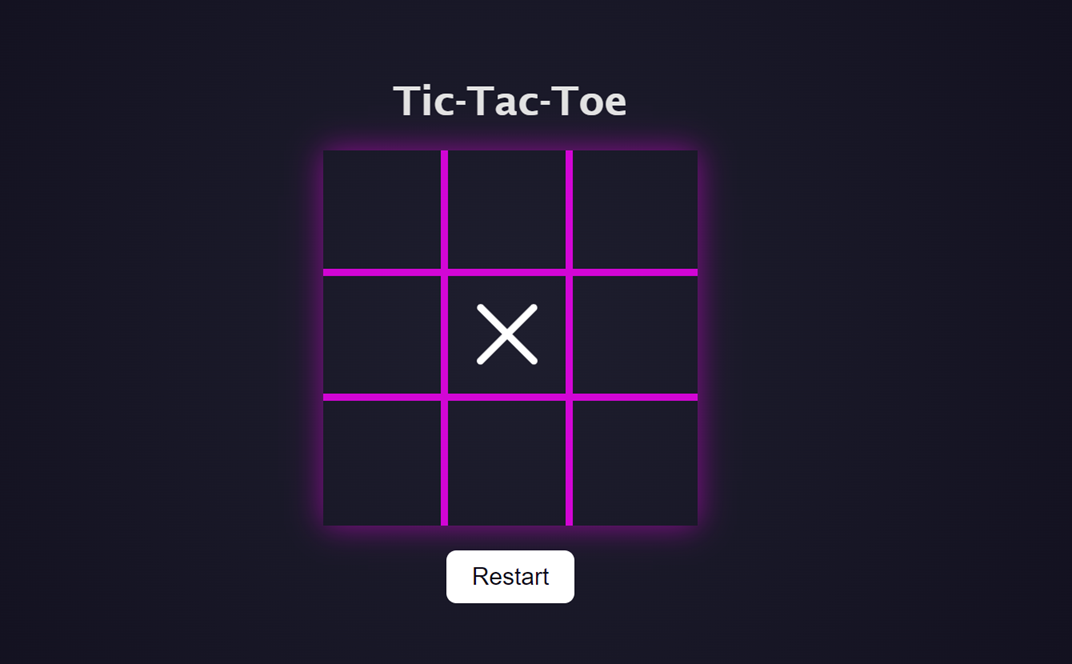
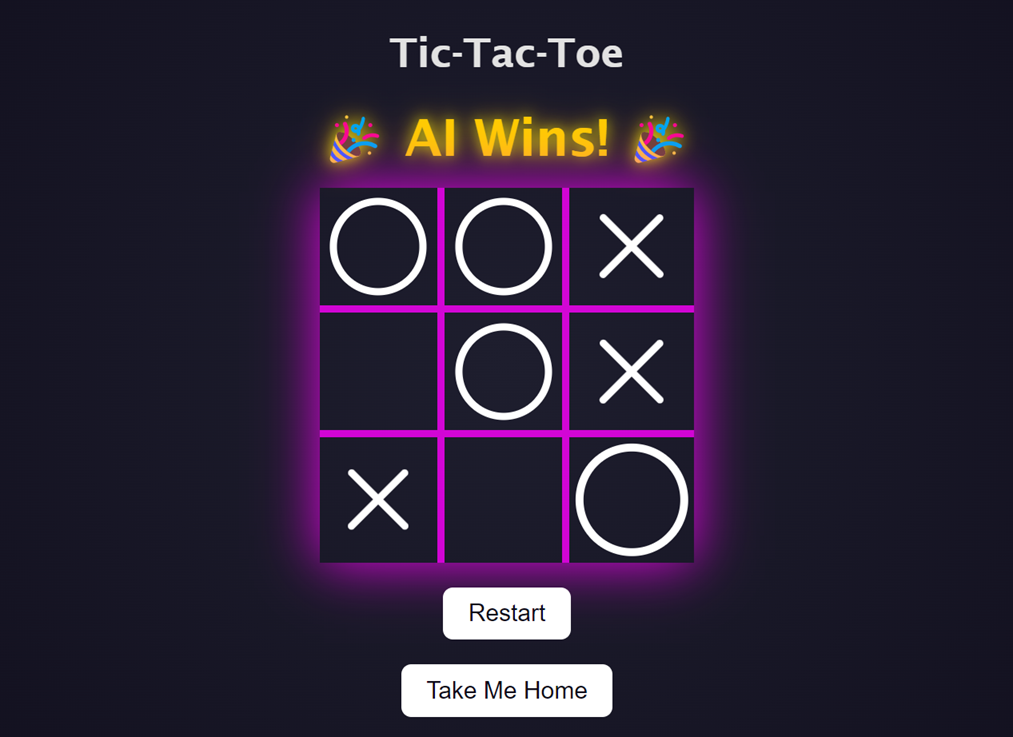
updated readme

Changed region(s): [[0.2754, 0.1205, 0.7345, 0.994], [0.3672, 0.0301, 0.612, 0.0904]]

diff --git a/README.md b/README.md
@@ -43,25 +43,30 @@ It’s just down the hall, to the right.
 <div align="center">
 But first, let me show you this…
 <br>
-<div align="center">
-  <img src="welcome.png" alt="Welcome" />
-</div>
-<br>
 <br>
 <div align="left">
 
 ```
-decl_name       "Welcome to My Page"
+decl_name       "tic-tac-toe"
 decl_version    1
 
-statemachine html_test {
+
+decl_events {
+    _tictac_tick
+    _tictac_restart
+}
+
+
+statemachine tictactoe {
 
     startstate ready
 
     state ready {
         enter (html_ready)
+        action (_tictac_restart, tictac_restart)
+        action (_tictac_tick, tictac_play, [e])
+        action (_html_render, html_response, HTML)
         event (_html_render, html_head)
-
     }
 
     state html {
@@ -72,39 +77,55 @@ statemachine html_test {
 
     super html {
         state html_head {
-            enter (html_emit,   "<head>"
+            enter (html_emit,   "<head>\r\n"
                                 "<meta charset=\"UTF-8\">\r\n"
                                 "<meta name=\"viewport\" content=\"width=device-width, initial-scale=1.0\">\r\n"
-                                "<title>Simple Page</title>\r\n"
-                                "<style>\r\n"
-                                "    body {\r\n"
-                                "        font-family: Arial, sans-serif;\r\n"
-                                "        background: radial-gradient(circle, #1e1e2e 0%, #0c0917 90%);\r\n"
-                                "        color: #333;\r\n"
-                                "        display: flex;\r\n"
-                                "        flex-direction: column;\r\n"
-                                "        justify-content: center;\r\n"
-                                "        align-items: center;\r\n"
-                                "        height: 100vh;\r\n"
-                                "        margin: 0;\r\n"
-                                "    }\r\n"
-                                "    h1 {\r\n"
-                                "        color: #AD231F;\r\n"
-                                "    }\r\n"
-                                "</style>\r\n")
+                                "<title>Tic-Tac-Toe</title>\r\n"
+                                "<link rel=\"stylesheet\" href=\"/engine/tictaccss\">\r\n")
             exit (html_emit,    "</head>\r\n")
-            event (_state_start, html_body)
+            event (_state_start, html_board_title)
         }
     }
 
     super html {
         state html_body {
-            enter (html_emit,   "<body>"
-                                "<h1>Welcome to My Page</h1>\r\n"
-                                "<p>This is a simple message to brighten your day!</p>\r\n")
-            exit (html_emit,    "</body>")
-            event (_state_start, ready)
+            enter (html_emit,   "<body>\r\n")
+            exit (html_emit,    "<button class=\"restart-btn\" onclick=\"window.location.href='/engine/tictactoe/[_tictac_restart]'\">Restart</button>\r\n"
+                                "<button class=\"restart-btn\" onclick=\"window.location.href='/index'\">Take Me Home</button>"
+                                "</body>")
 
+        }
+        super html_body {
+
+            state html_board_title {
+                action (_state_start, html_emit,                        "<h1>Tic-Tac-Toe</h1>\r\n")
+                action_ld (_state_start, [a], tictac_status)
+                action_eq (_state_start, TICTAC_DRAW, html_emit,        "<div id=\"winner-message\" class=\"winner\"> Draw </div>\r\n\r\n")
+                action_eq (_state_start, TICTAC_PLAYER_WIN, html_emit,  "<div id=\"winner-message\" class=\"winner\"> 👑 Player Wins! 👑 </div>\r\n")
+                action_eq (_state_start, TICTAC_AI_WIN, html_emit,      "<div id=\"winner-message\" class=\"winner\"> 🎉 AI Wins! 🎉 </div>\r\n")
+                event (_state_start, html_board_cell)
+
+            }
+           
+            state html_board {
+                enter (r_load, 0)
+                enter (html_emit,   "<div class=\"board\">\r\n")
+                exit (html_emit,    "</div>\r\n")
+
+            }
+            super html_board {
+                state html_board_cell {
+                    action_ld (_state_start, [a], tictac_cell, [r])
+                    action_eq (_state_start, TICTAC_OPEN, html_subst_emit,   "<div class=\"cell\"><a href=\"/engine/tictactoe/[_tictac_tick]/[r]\" class=\"invisible-link\"></a></div>\r\n")
+                    action_eq (_state_start, TICTAC_PLAYER, html_emit,       "<div class=\"cell x\"></div>\r\n")
+                    action_eq (_state_start, TICTAC_AI, html_emit,           "<div class=\"cell o\"></div>\r\n")
+                    action_eq (_state_start, TICTAC_PLAYER_BLINK, html_emit, "<div class=\"cell x blink\"></div>\r\n")
+                    action_eq (_state_start, TICTAC_AI_BLINK, html_emit,     "<div class=\"cell o blink\"></div>\r\n")
+                    action (_state_start, r_inc, 9)
+                    event_nt (_state_start, html_board_cell)
+                    event_if (_state_start, ready)
+                }
+            }            
         }
     }
 
